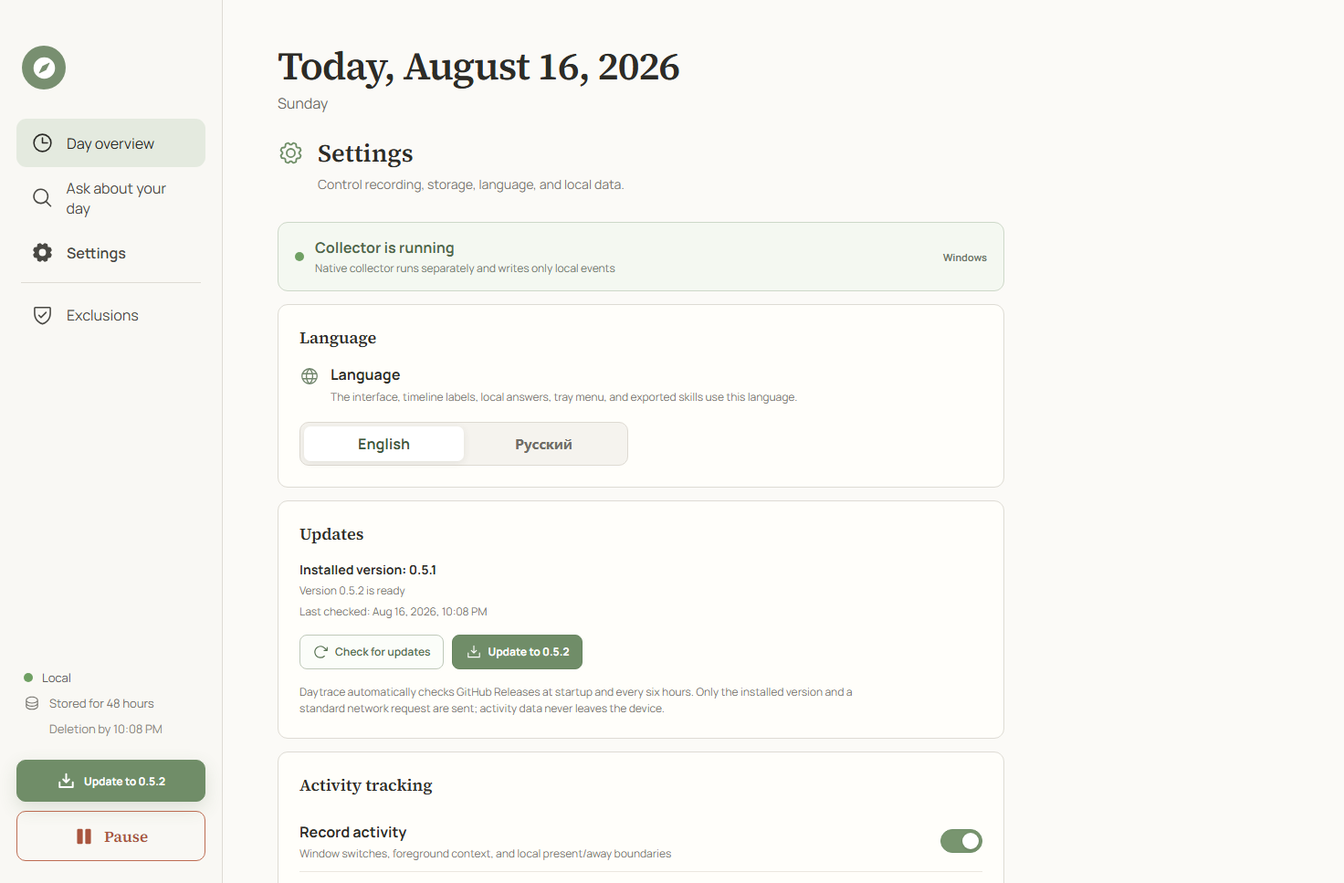
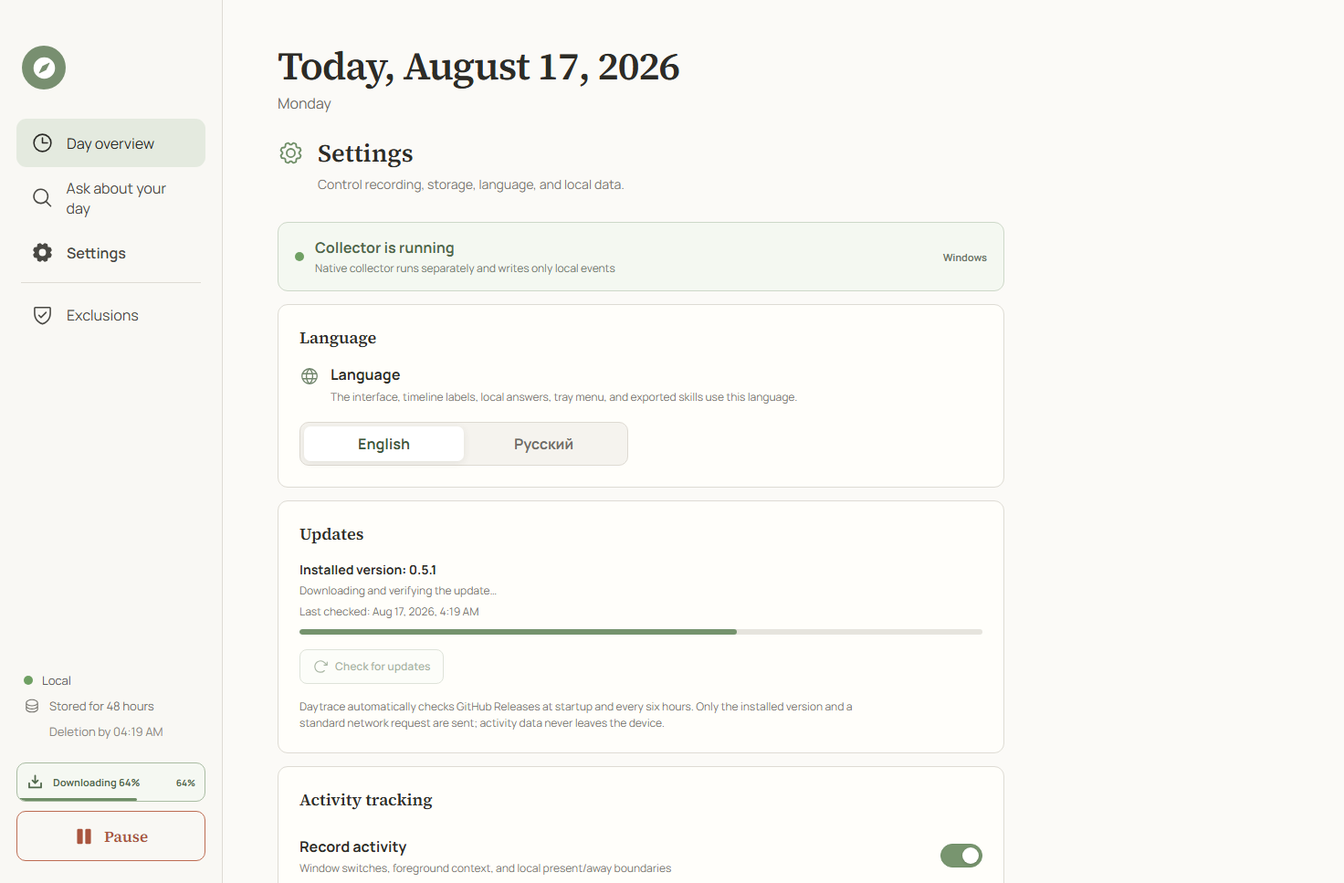
fix: surface update progress and restart

diff --git a/src/i18n.js b/src/i18n.js
@@ -10,7 +10,7 @@ export const translations = {
     languageName: "English",
     nav: { history: "Day overview", ask: "Ask about your day", settings: "Settings", exclusions: "Exclusions" },
     common: { activeWindow: "Active window", cancel: "Cancel", add: "Add", today: "Today", local: "Local", minutes: "min", hours: "h" },
-    status: { paused: "Tracking paused", retention: "Stored for {hours} hours", deletion: "Deletion by {time}", pause: "Pause", resume: "Resume", update: "Update to {version}" },
+    status: { paused: "Tracking paused", retention: "Stored for {hours} hours", deletion: "Deletion by {time}", pause: "Pause", resume: "Resume", update: "Update to {version}", updateChecking: "Checking for updates", updateDownloading: "Downloading {progress}%", updateReady: "Update verified", updateInstalling: "Installing update", updateRestarting: "Restarting Daytrace", updateMacOpened: "DMG opened — finish in Finder", updateFailed: "Update needs attention" },
     question: { placeholder: "Ask about your day, for example: “What was I working on this morning?”", label: "Question about your workday", fallback: "What was I working on this morning?", searching: "Searching…", ask: "Ask" },
     session: { focus: "Activity", intent: "Purpose", delete: "Delete session" },
     intent: {
@@ -80,7 +80,7 @@ export const translations = {
       analysis: "Local purpose analysis", analysisText: "Daytrace recognizes popular services, understands the active title, uses specialized app categories, and learns from repeated and neighboring contexts. Add a rule when a private chat name, project nickname, or site title has a meaning only you know.", rulePlaceholder: "For example: Project Atlas or Netflix", rulePurpose: "Purpose", ruleEmpty: "No custom rules yet. Automatic local classification remains active.", removeRule: "Remove rule",
       system: "System", autostart: "Launch at login", autostartText: "Starts quietly in the tray and begins local tracking", autostartUnavailable: "Available in the installed desktop application", runtimeText: "Native collector runs separately and writes only local events", accessibility: "Accessibility permission required", accessibilityText: "macOS requires permission to read the active application and window title.", grantAccess: "Open permission settings",
       updates: "Updates", currentVersion: "Installed version: {version}", availableVersion: "Version {version} is ready", lastChecked: "Last checked: {time}", checkUpdates: "Check for updates", checking: "Checking…", installUpdate: "Update to {version}", downloadMac: "Download {version}", updateError: "The update service could not complete the request. Try again when the internet connection is available.", updatePrivacy: "Daytrace automatically checks GitHub Releases at startup and every six hours. Only the installed version and a standard network request are sent; activity data never leaves the device.",
-      updateStatuses: { disabled: "Available in the installed desktop application", idle: "Not checked yet", checking: "Checking GitHub Releases…", available: "A new version is available", "up-to-date": "You have the latest version", offline: "No internet connection; Daytrace will retry automatically", downloading: "Downloading and verifying the update…", ready: "Update verified and ready", "installer-opened": "The macOS installer is open", error: "Update check failed" },
+      updateStatuses: { disabled: "Available in the installed desktop application", idle: "Not checked yet", checking: "Checking GitHub Releases…", available: "A new version is available", "up-to-date": "You have the latest version", offline: "No internet connection; Daytrace will retry automatically", downloading: "Downloading and verifying the update…", ready: "Update verified and ready", installing: "Installing the verified update…", restarting: "Installation started; Daytrace will reopen automatically", "installer-opened": "The macOS installer is open", error: "Update check failed" },
       statuses: { running: "Collector is running", starting: "Collector is starting…", paused: "Tracking is paused", stopped: "Collector is stopped", error: "Collector needs attention", unavailable: "Native collector is unavailable", "permission-required": "Accessibility permission required" },
       data: "Data", events: "{count} events", autoDelete: "Automatically deleted after {hours} hours", deviceOnly: "On this device only", openData: "Open data folder",
       clear: "Clear history", clearText: "All local events will be deleted immediately and permanently.", deleteAll: "Delete everything", clearJournal: "Clear local journal",
@@ -107,7 +107,7 @@ export const translations = {
     languageName: "Русский",
     nav: { history: "Обзор дня", ask: "Спросить о дне", settings: "Настройки", exclusions: "Исключения" },
     common: { activeWindow: "Активное окно", cancel: "Отмена", add: "Добавить", today: "Сегодня", local: "Локально", minutes: "мин", hours: "ч" },
-    status: { paused: "Сбор на паузе", retention: "Хранение {hours} часов", deletion: "Удаление до {time}", pause: "Приостановить", resume: "Продолжить", update: "Обновить до {version}" },
+    status: { paused: "Сбор на паузе", retention: "Хранение {hours} часов", deletion: "Удаление до {time}", pause: "Приостановить", resume: "Продолжить", update: "Обновить до {version}", updateChecking: "Проверяю обновления", updateDownloading: "Скачиваю {progress}%", updateReady: "Обновление проверено", updateInstalling: "Устанавливаю обновление", updateRestarting: "Перезапускаю Daytrace", updateMacOpened: "DMG открыт — завершите в Finder", updateFailed: "Обновлению нужно внимание" },
     question: { placeholder: "Спросить о дне, например: «Над чем я работал сегодня с утра?»", label: "Вопрос о рабочем дне", fallback: "Над чем я работал сегодня с утра?", searching: "Ищу…", ask: "Спросить" },
     session: { focus: "Активность", intent: "Цель", delete: "Удалить сессию" },
     intent: {
@@ -177,7 +177,7 @@ export const translations = {
       analysis: "Локальный анализ цели", analysisText: "Daytrace распознаёт популярные сервисы, понимает активный заголовок, учитывает категории специализированных программ и учится на повторяющемся и соседнем контексте. Добавьте правило, если название личного чата, внутреннего проекта или сайта понятно только вам.", rulePlaceholder: "Например: Проект Атлас или Netflix", rulePurpose: "Цель", ruleEmpty: "Пользовательских правил пока нет. Автоматическая локальная классификация продолжает работать.", removeRule: "Удалить правило",
       system: "Система", autostart: "Запускать при входе", autostartText: "Тихо запускается в трее и начинает локальный сбор", autostartUnavailable: "Доступно в установленном приложении", runtimeText: "Нативный сборщик работает отдельно и пишет только локальные события", accessibility: "Нужен доступ к Универсальному доступу", accessibilityText: "macOS требует разрешение для чтения активного приложения и названия окна.", grantAccess: "Открыть настройки доступа",
       updates: "Обновления", currentVersion: "Установленная версия: {version}", availableVersion: "Доступна версия {version}", lastChecked: "Последняя проверка: {time}", checkUpdates: "Проверить обновления", checking: "Проверяю…", installUpdate: "Обновить до {version}", downloadMac: "Скачать {version}", updateError: "Не удалось завершить проверку или установку. Повторите, когда интернет будет доступен.", updatePrivacy: "Daytrace автоматически проверяет GitHub Releases при запуске и раз в шесть часов. Передаётся только установленная версия и обычный сетевой запрос; данные активности никогда не покидают устройство.",
-      updateStatuses: { disabled: "Доступно в установленном приложении", idle: "Обновления ещё не проверялись", checking: "Проверяю GitHub Releases…", available: "Доступна новая версия", "up-to-date": "Установлена последняя версия", offline: "Нет интернета; Daytrace повторит проверку автоматически", downloading: "Скачиваю и проверяю обновление…", ready: "Обновление проверено и готово", "installer-opened": "Установщик macOS открыт", error: "Не удалось проверить обновления" },
+      updateStatuses: { disabled: "Доступно в установленном приложении", idle: "Обновления ещё не проверялись", checking: "Проверяю GitHub Releases…", available: "Доступна новая версия", "up-to-date": "Установлена последняя версия", offline: "Нет интернета; Daytrace повторит проверку автоматически", downloading: "Скачиваю и проверяю обновление…", ready: "Обновление проверено и готово", installing: "Устанавливаю проверенное обновление…", restarting: "Установка запущена; Daytrace откроется автоматически", "installer-opened": "Установщик macOS открыт", error: "Не удалось проверить обновления" },
       statuses: { running: "Сборщик работает", starting: "Сборщик запускается…", paused: "Сбор на паузе", stopped: "Сборщик остановлен", error: "Сборщику нужно внимание", unavailable: "Нативный сборщик недоступен", "permission-required": "Нужен доступ macOS" },
       data: "Данные", events: "{count} событий", autoDelete: "Автоудаление через {hours} часов", deviceOnly: "Только на устройстве", openData: "Открыть папку данных",
       clear: "Очистить историю", clearText: "Все локальные события будут удалены немедленно и безвозвратно.", deleteAll: "Удалить всё", clearJournal: "Очистить локальный журнал",

diff --git a/src/App.jsx b/src/App.jsx
@@ -46,7 +46,8 @@ function demoLanguage() {
 function demoState(language = demoLanguage(), onboardingComplete = true) {
   const lang = normalizeLanguage(language);
   const t = translations[lang];
-  const updatePreview = new URLSearchParams(window.location.search).get("update") === "available";
+  const updatePreview = new URLSearchParams(window.location.search).get("update");
+  const updateStatus = ["available", "downloading", "ready", "installing", "restarting", "installer-opened", "error"].includes(updatePreview) ? updatePreview : "up-to-date";
   const apps = ["Visual Studio Code", "Google Chrome", "Telegram Desktop", "Visual Studio Code", "Visual Studio Code", "Google Chrome", "Figma", "Telegram Desktop", "Gmail"];
   const focuses = ["development", "planning", "communication", "development", "development", "research", "design", "communication", "communication"];
   const intents = ["work", "work", "work", "work", "work", "learning", "work", "personal", "work"];
@@ -59,7 +60,7 @@ function demoState(language = demoLanguage(), onboardingComplete = true) {
   const makeSession = (id, from, to, focus, intent) => ({ id, start: activities[from].start, end: activities[to].end, durationMs: activities[to].end - activities[from].start, focus, label: FOCUS_LABELS[lang][focus], intent, intentLabel: INTENT_LABELS[lang][intent], activities: activities.slice(from, to + 1) });
   return {
     settings: { trackingEnabled: true, retentionHours: 48, excludePrivateWindows: true, collectWindowTitles: true, collectInputCounts: true, collectBrowserTabCount: true, autoStartEnabled: false, excludedApps: ["1Password", "Bitwarden", "KeePass"], intentRules: [{ id: "demo-friends", match: lang === "ru" ? "Друзья" : "Friends", intent: "personal" }], language: lang, onboardingComplete },
-    runtime: { platform: updatePreview ? "win32" : "browser", trackerStatus: "running", accessibilityTrusted: true, autoStartSupported: false, autoStartEnabled: false, update: { status: updatePreview ? "available" : "up-to-date", currentVersion: "0.5.1", latestVersion: updatePreview ? "0.5.2" : "0.5.1", checkedAt: Date.now(), progress: 0 } },
+    runtime: { platform: updatePreview ? "win32" : "browser", trackerStatus: "running", accessibilityTrusted: true, autoStartSupported: false, autoStartEnabled: false, update: { status: updateStatus, currentVersion: "0.5.1", latestVersion: updatePreview ? "0.5.2" : "0.5.1", checkedAt: Date.now(), progress: updateStatus === "downloading" ? 64 : ["ready", "installing", "restarting"].includes(updateStatus) ? 100 : 0 } },
     sessions: [
       makeSession("demo-1", 0, 2, "mixed", "work"), makeSession("demo-2", 3, 6, "mixed", "work"), makeSession("demo-3", 7, 8, "communication", "mixed"),
       { id: "demo-break", start: startOfToday(12, 5), end: startOfToday(12, 20), durationMs: 15 * 60_000, focus: "break", label: FOCUS_LABELS[lang].break, intent: "unknown", intentLabel: INTENT_LABELS[lang].unknown, activities: [] },
@@ -248,15 +249,40 @@ function MacPermissionOnboarding({ actions, onContinue, t }) {
   </main>;
 }
 
+function SidebarUpdateStatus({ update, actions, setPage, t }) {
+  const status = update.status;
+  const visible = ["checking", "available", "downloading", "ready", "installing", "restarting", "installer-opened", "error"].includes(status);
+  if (!visible) return null;
+  const progress = Math.max(0, Math.min(100, Number(update.progress || 0)));
+  const labels = {
+    checking: t.status.updateChecking,
+    available: text(t.status.update, { version: update.latestVersion }),
+    downloading: text(t.status.updateDownloading, { progress }),
+    ready: t.status.updateReady,
+    installing: t.status.updateInstalling,
+    restarting: t.status.updateRestarting,
+    "installer-opened": t.status.updateMacOpened,
+    error: t.status.updateFailed,
+  };
+  const busy = ["checking", "downloading", "installing", "restarting"].includes(status);
+  const Icon = status === "error" ? X : ["ready", "installer-opened"].includes(status) ? Check : status === "available" || status === "downloading" ? DownloadSimple : ArrowClockwise;
+  const activate = () => status === "available" ? actions.installUpdate() : setPage("settings");
+  return <button className={`sidebar-update-status ${status}`} onClick={activate} title={labels[status]} aria-label={labels[status]}>
+    <Icon size={19} weight="bold" className={busy && status !== "downloading" ? "spin" : ""} />
+    <span>{labels[status]}</span>
+    {status === "downloading" && <em>{progress}%</em>}
+    {status === "downloading" && <i style={{ width: `${Math.max(3, progress)}%` }} />}
+  </button>;
+}
+
 function Sidebar({ page, setPage, state, actions, language, t }) {
   const expires = new Date(Date.now() + state.settings.retentionHours * 60 * 60_000);
   const update = state.runtime?.update || {};
-  const updateAvailable = update.status === "available";
   return <aside className="sidebar">
     <div className="brand-mark"><Compass size={29} weight="fill" /></div>
     <nav className="main-nav" aria-label={language === "ru" ? "Разделы" : "Sections"}>{NAVIGATION.map(({ id, icon: Icon, separated }) => <button key={id} className={`${page === id ? "active" : ""} ${separated ? "separated" : ""}`} onClick={() => setPage(id)}><Icon size={25} weight={page === id ? "fill" : "regular"} /><span>{t.nav[id]}</span></button>)}</nav>
     <div className="sidebar-status"><div className="status-row"><span className={`status-dot ${state.settings.trackingEnabled ? "on" : "off"}`} /><span>{state.settings.trackingEnabled ? t.common.local : t.status.paused}</span></div><div className="status-row muted"><Database size={18} /><span>{text(t.status.retention, { hours: state.settings.retentionHours })}</span></div><div className="expiry">{text(t.status.deletion, { time: formatTime(expires, language) })}</div></div>
-    {updateAvailable && <button className="sidebar-update-button" onClick={actions.installUpdate} title={text(t.status.update, { version: update.latestVersion })}><DownloadSimple size={21} weight="bold" /><span>{text(t.status.update, { version: update.latestVersion })}</span></button>}
+    <SidebarUpdateStatus update={update} actions={actions} setPage={setPage} t={t} />
     <button className={`tracking-button ${state.settings.trackingEnabled ? "pause" : "resume"}`} onClick={() => actions.setTracking(!state.settings.trackingEnabled)}>{state.settings.trackingEnabled ? <Pause size={22} weight="fill" /> : <Play size={22} weight="fill" />}{state.settings.trackingEnabled ? t.status.pause : t.status.resume}</button>
   </aside>;
 }
@@ -366,10 +392,11 @@ function UpdateSettings({ runtime, actions, pending, run, t }) {
   const update = runtime.update || { status: "disabled", currentVersion: "—" };
   const checking = update.status === "checking";
   const downloading = update.status === "downloading";
+  const installing = ["installing", "restarting"].includes(update.status);
   const available = update.status === "available";
   const status = t.settings.updateStatuses[update.status] || t.settings.updateStatuses.idle;
   const checked = update.checkedAt ? new Intl.DateTimeFormat(t.locale, { dateStyle: "medium", timeStyle: "short" }).format(new Date(update.checkedAt)) : null;
-  return <div className="update-settings"><div className="update-copy"><div><strong>{text(t.settings.currentVersion, { version: update.currentVersion || "—" })}</strong><span>{available ? text(t.settings.availableVersion, { version: update.latestVersion }) : status}</span>{checked && <small>{text(t.settings.lastChecked, { time: checked })}</small>}</div>{downloading && <div className="update-progress"><span style={{ width: `${Math.max(3, Number(update.progress || 0))}%` }} /></div>}{update.error && <small className="update-error">{t.settings.updateError}</small>}</div><div className="update-actions"><button className="secondary-button" disabled={Boolean(pending) || checking || downloading || update.status === "disabled"} onClick={() => run("check-update", actions.checkUpdates)}><ArrowClockwise size={18} className={checking ? "spin" : ""} /> {checking ? t.settings.checking : t.settings.checkUpdates}</button>{available && <button className="primary-update-button" disabled={Boolean(pending)} onClick={() => run("install-update", actions.installUpdate)}><DownloadSimple size={18} /> {runtime.platform === "darwin" ? text(t.settings.downloadMac, { version: update.latestVersion }) : text(t.settings.installUpdate, { version: update.latestVersion })}</button>}</div><p>{t.settings.updatePrivacy}</p></div>;
+  return <div className="update-settings"><div className="update-copy"><div><strong>{text(t.settings.currentVersion, { version: update.currentVersion || "—" })}</strong><span>{available ? text(t.settings.availableVersion, { version: update.latestVersion }) : status}</span>{checked && <small>{text(t.settings.lastChecked, { time: checked })}</small>}</div>{downloading && <div className="update-progress"><span style={{ width: `${Math.max(3, Number(update.progress || 0))}%` }} /></div>}{update.error && <small className="update-error">{t.settings.updateError}</small>}</div><div className="update-actions"><button className="secondary-button" disabled={Boolean(pending) || checking || downloading || installing || update.status === "disabled"} onClick={() => run("check-update", actions.checkUpdates)}><ArrowClockwise size={18} className={checking ? "spin" : ""} /> {checking ? t.settings.checking : t.settings.checkUpdates}</button>{available && <button className="primary-update-button" disabled={Boolean(pending)} onClick={() => run("install-update", actions.installUpdate)}><DownloadSimple size={18} /> {runtime.platform === "darwin" ? text(t.settings.downloadMac, { version: update.latestVersion }) : text(t.settings.installUpdate, { version: update.latestVersion })}</button>}</div><p>{t.settings.updatePrivacy}</p></div>;
 }
 
 function SettingsPage({ state, actions, isDesktop, language, t }) {

diff --git a/src/styles.css b/src/styles.css
@@ -37,8 +37,13 @@ button { color: inherit; }
 .status-dot.on { background: #6fa063; }
 .status-dot.off { background: #c2765b; }
 .expiry { margin-left: 28px; color: #8d8a83; }
-.sidebar-update-button { display: flex; align-items: center; justify-content: center; gap: 9px; min-height: 46px; margin: 0 0 10px; padding: 0 12px; border: 1px solid #6f8e67; border-radius: 10px; color: #fff; background: #708d68; box-shadow: 0 7px 20px rgba(76, 106, 68, .16); cursor: pointer; font-size: 12px; font-weight: 750; }
-.sidebar-update-button:hover { background: #607d59; }
+.sidebar-update-status { position: relative; display: grid; grid-template-columns: 22px minmax(0, 1fr) auto; align-items: center; gap: 7px; min-height: 43px; margin: 0 0 10px; padding: 7px 10px; overflow: hidden; border: 1px solid #a9bca2; border-radius: 10px; color: #50684b; background: #f5f8f2; cursor: pointer; font-size: 11px; font-weight: 750; text-align: left; }
+.sidebar-update-status:hover { border-color: #789570; background: #eff5eb; }
+.sidebar-update-status.available { border-color: #6f8e67; color: #fff; background: #708d68; box-shadow: 0 7px 20px rgba(76, 106, 68, .16); }
+.sidebar-update-status.available:hover { background: #607d59; }
+.sidebar-update-status.error { border-color: #dfb4a6; color: #98583f; background: #fff8f5; }
+.sidebar-update-status em { font-size: 10px; font-style: normal; }
+.sidebar-update-status i { position: absolute; bottom: 0; left: 0; height: 3px; border-radius: 0 2px 2px 0; background: #6f8e67; transition: width .25s ease; }
 .tracking-button { display: flex; align-items: center; justify-content: center; gap: 11px; min-height: 55px; border-radius: 10px; background: transparent; font-family: "Source Serif 4", Georgia, serif; font-size: 17px; font-weight: 600; cursor: pointer; }
 .tracking-button.pause { border: 1px solid var(--clay); color: var(--clay-dark); }
 .tracking-button.resume { border: 1px solid var(--sage); color: #50704d; }
@@ -298,8 +303,8 @@ button:focus-visible, input:focus-visible { outline: 2px solid #748e6c; outline-
   .sidebar { position: sticky; top: 0; height: 100vh; align-items: center; padding-inline: 10px; }
   .brand-mark { margin-left: 0; }
   .main-nav button { justify-content: center; padding: 0; }
-  .main-nav button span, .sidebar-status, .tracking-button, .sidebar-update-button span { display: none; }
-  .sidebar-update-button { width: 46px; padding: 0; }
+  .main-nav button span, .sidebar-status, .tracking-button, .sidebar-update-status span, .sidebar-update-status em { display: none; }
+  .sidebar-update-status { display: flex; width: 46px; padding: 0; justify-content: center; }
   .app-main { height: auto; min-height: 100vh; padding: 45px 24px; overflow: visible; }
   .question-bar { width: 100%; min-width: 0; }
   .history-page { display: block; }
@@ -311,7 +316,7 @@ button:focus-visible, input:focus-visible { outline: 2px solid #748e6c; outline-
 @media (max-width: 650px) {
   .app-shell { grid-template-columns: 1fr; }
   .sidebar { position: fixed; right: 0; bottom: 0; left: 0; top: auto; z-index: 20; flex-direction: row; width: 100%; height: 66px; padding: 6px 10px; border-top: 1px solid var(--line); border-right: 0; }
-  .brand-mark, .main-nav button:nth-child(4), .main-nav button.separated, .sidebar-update-button { display: none; }
+  .brand-mark, .main-nav button:nth-child(4), .main-nav button.separated, .sidebar-update-status { display: none; }
   .main-nav { display: grid; grid-template-columns: repeat(3, 1fr); width: 100%; }
   .main-nav button { min-height: 52px; }
   .app-main { padding: 28px 17px 90px; }

diff --git a/README.md b/README.md
@@ -56,7 +56,7 @@ The current v0.5.1 macOS build is not notarized, so Gatekeeper may require **Ope
 
 Minimizing or closing the window releases the heavy renderer while the lightweight native tracker continues from the system tray. Double-click the tray icon or launch Daytrace again to reopen the same instance.
 
-Installed builds check for a stable update shortly after launch and every six hours while online. You can also use **Settings → Updates → Check for updates**. When a newer release exists, an **Update** button appears at the bottom left. Windows verifies and starts the installer automatically; macOS verifies and opens the universal DMG for the standard user-confirmed installation flow.
+Installed builds check for a stable update shortly after launch and every six hours while online. You can also use **Settings → Updates → Check for updates**. A compact bottom-left status shows checking, download percentage, verification, installation, restart, or an actionable error without opening Settings. Windows verifies the installer, preserves the current install location, updates silently, and reopens Daytrace automatically. macOS verifies and opens the universal DMG, then shows that Finder still needs the standard user-confirmed replacement.
 
 ## What you get
 
@@ -79,6 +79,7 @@ Installed builds check for a stable update shortly after launch and every six ho
 - **Fine-grained collection controls** for window titles, anonymous active-second samples, browser-tab counts, and private-window filtering.
 - **Two-layer classification** that keeps the application type separate from the inferred purpose. Telegram can be work or personal; a browser can be work, learning, entertainment, or unknown.
 - **Adaptive local purpose analysis** for popular video, streaming, social, shopping, learning, developer, office, creative, and communication contexts, with confidence and the reason for every inference.
+- **Broader visible-context understanding** for popular games, packaged game executables, technical work, debugging, installation, infrastructure, searches, comparisons, and reference pages in English and Russian.
 - **One-click local corrections** on timeline entries plus reusable substring rules for chats, page titles, projects, and keywords. Rules never leave the device.
 
 ![Daytrace day overview and latest activity in English](docs/assets/screenshots/timeline-en.png)

diff --git a/CHANGELOG.md b/CHANGELOG.md
@@ -14,6 +14,17 @@ All notable changes to Daytrace are documented here.
 
 - The tagged macOS release job now requires a real Developer ID Application certificate and Apple notarization credentials, signs the embedded native tracker, enables Hardened Runtime, and refuses to publish unless `codesign`, Gatekeeper assessment, and stapler validation all pass.
 
+### Updates
+
+- A compact bottom-left status now shows update checking, download percentage, verification, installation, restart, macOS DMG handoff, and failures without requiring a trip to Settings.
+- Silent Windows updates now use NSIS update mode, preserve the current installation directory, and force Daytrace to reopen after installation.
+
+### Purpose accuracy
+
+- Popular game processes and common packaged-game executable names are recognized as entertainment instead of remaining unknown.
+- Visible active-window titles now cover more development, installation, debugging, infrastructure, search, comparison, and reference contexts in English and Russian.
+- On the same local 48-hour diagnostic journal, unknown observed time fell to 1.7%; the remaining opaque chat titles stay honest rather than being assigned an unsupported purpose.
+
 ## [0.5.1] - 2026-08-16
 
 ### Fixed
